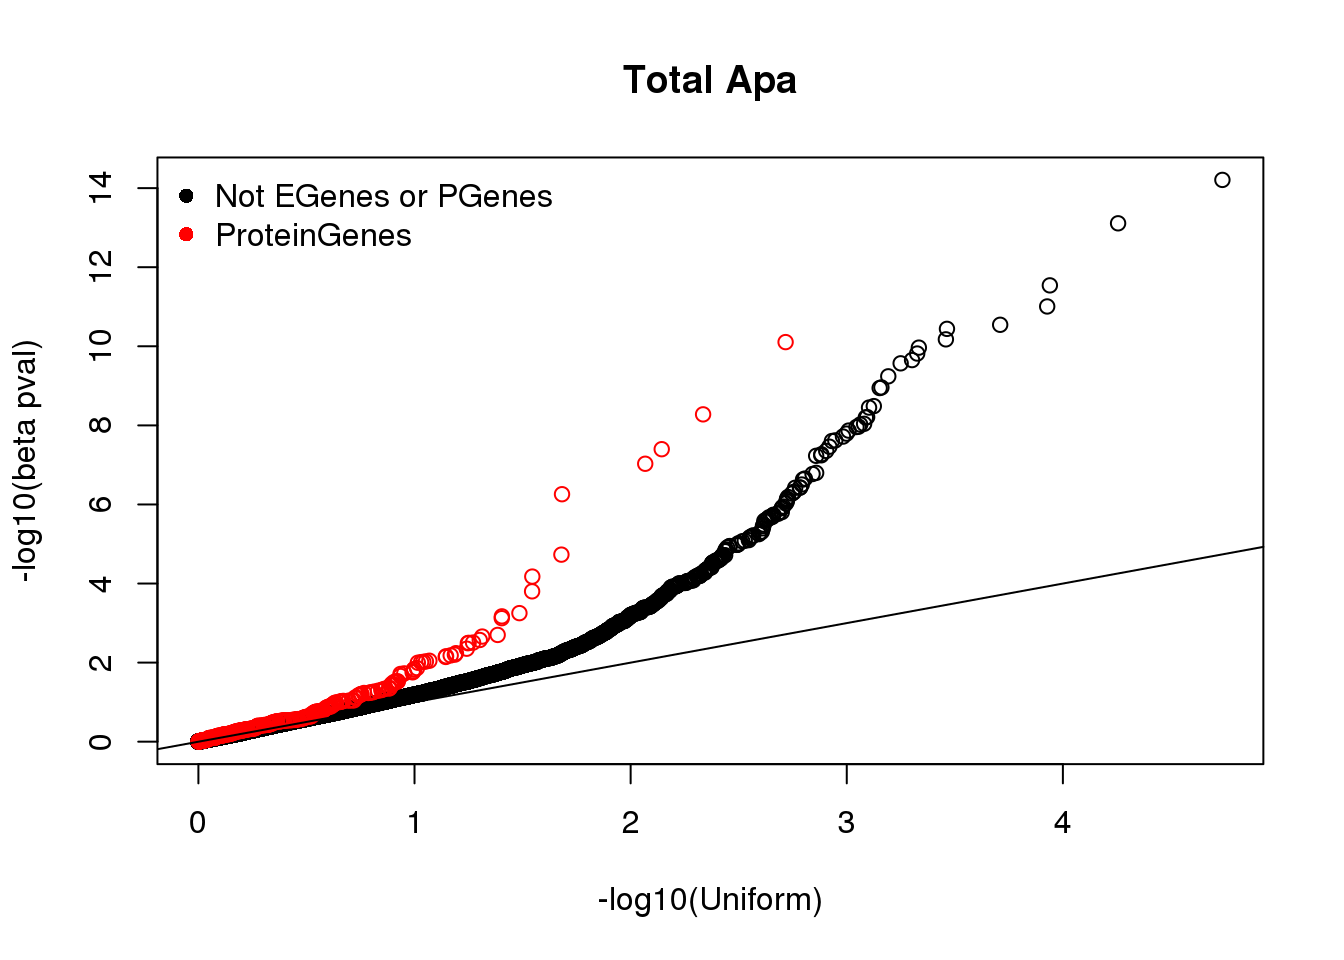
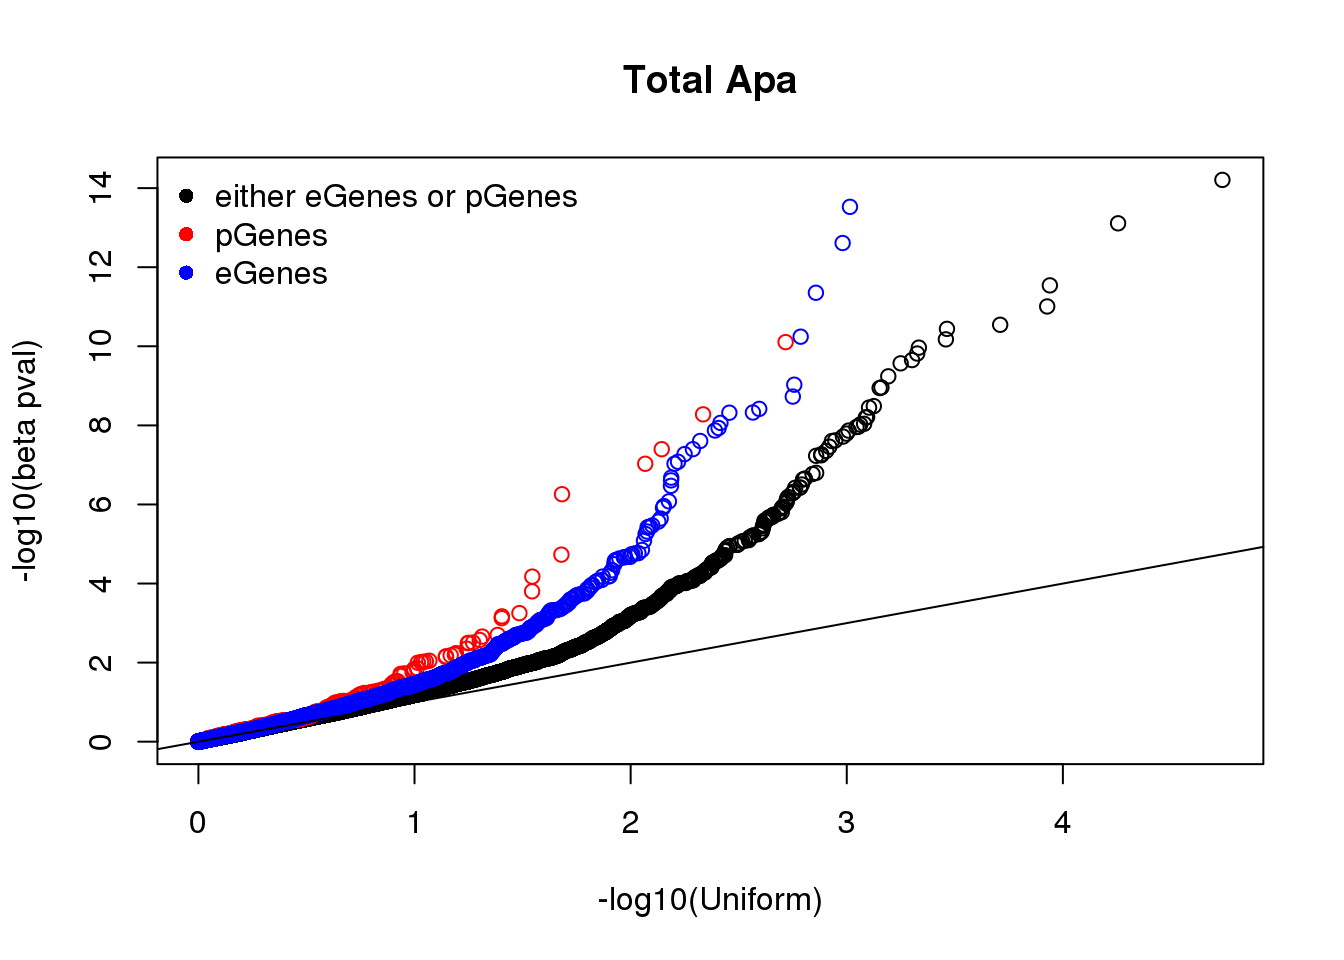
Build site.

Changed region(s): [[0.125, 0.4062, 0.5938, 0.7812], [0.1562, 0.1875, 0.4375, 0.3125]]

diff --git a/docs/pQTLandeQTLoverlap.html b/docs/pQTLandeQTLoverlap.html
@@ -422,10 +422,10 @@ This reproducible <a href="http://rmarkdown.rstudio.com">R Markdown</a> analysis
 <div class="panel panel-default">
 <div class="panel-heading">
 <p class="panel-title">
-<a data-toggle="collapse" data-parent="#workflowr-checks" href="#strongRepositoryversionstrongahrefhttpsgithubcombrimittlemanapaQTLtreeb38964e1734f523e65ec48706cd046efad0babc5targetblankb38964ea"> <span class="glyphicon glyphicon-ok text-success" aria-hidden="true"></span> <strong>Repository version:</strong> <a href="https://github.com/brimittleman/apaQTL/tree/b38964e1734f523e65ec48706cd046efad0babc5" target="_blank">b38964e</a> </a>
+<a data-toggle="collapse" data-parent="#workflowr-checks" href="#strongRepositoryversionstrongahrefhttpsgithubcombrimittlemanapaQTLtree5010185d2022c9b1989ea3475bd734b34fd2fdc5targetblank5010185a"> <span class="glyphicon glyphicon-ok text-success" aria-hidden="true"></span> <strong>Repository version:</strong> <a href="https://github.com/brimittleman/apaQTL/tree/5010185d2022c9b1989ea3475bd734b34fd2fdc5" target="_blank">5010185</a> </a>
 </p>
 </div>
[2 lines of base64/hex data omitted]
 <div class="panel-body">
 <p>
 Great! You are using Git for version control. Tracking code development and connecting the code version to the results is critical for reproducibility. The version displayed above was the version of the Git repository at the time these results were generated. <br><br> Note that you need to be careful to ensure that all relevant files for the analysis have been committed to Git prior to generating the results (you can use <code>wflow_publish</code> or <code>wflow_git_commit</code>). workflowr only checks the R Markdown file, but you know if there are other scripts or data files that it depends on. Below is the status of the Git repository when the results were generated:
@@ -972,6 +972,40 @@ Message
 Rmd
 </td>
 <td>
+<a href="https://github.com/brimittleman/apaQTL/blob/5010185d2022c9b1989ea3475bd734b34fd2fdc5/analysis/pQTLandeQTLoverlap.Rmd" target="_blank">5010185</a>
+</td>
+<td>
+brimittleman
+</td>
+<td>
+2019-06-14
+</td>
+<td>
+wflow_publish(c(“analysis/index.Rmd”, “analysis/pQTLandeQTLoverlap.Rmd”))
+</td>
+</tr>
+<tr>
+<td>
+html
+</td>
+<td>
+<a href="https://rawcdn.githack.com/brimittleman/apaQTL/15962c894bfeb221c45d3f1260561c58a29c0941/docs/pQTLandeQTLoverlap.html" target="_blank">15962c8</a>
+</td>
+<td>
+brimittleman
+</td>
+<td>
+2019-06-14
+</td>
+<td>
+Build site.
+</td>
+</tr>
+<tr>
+<td>
+Rmd
+</td>
+<td>
 <a href="https://github.com/brimittleman/apaQTL/blob/b38964e1734f523e65ec48706cd046efad0babc5/analysis/pQTLandeQTLoverlap.Rmd" target="_blank">b38964e</a>
 </td>
 <td>
@@ -1031,28 +1065,114 @@ python subsetAPAnotEorPgene.py Nuclear ../data/ApaByPgene/NuclearApaNOTPorEGenes
 <pre class="r"><code>tot.notEorP=read.table(&quot;../data/ApaByPgene/TotalApaNOTPorEGenes.txt&quot;,stringsAsFactors = F,col.names = c(&quot;pid&quot;, &quot;nvar&quot;, &quot;shape1&quot;, &quot;shape2&quot;, &quot;dummy&quot;, &quot;sid&quot;, &quot;dist&quot;, &quot;npval&quot;, &quot;slope&quot;, &quot;ppval&quot;, &quot;bpval&quot;))
 tot.PS=read.table(&quot;../data/ApaByPgene/TotalApaPSGenes.txt&quot;,stringsAsFactors = F,col.names = c(&quot;pid&quot;, &quot;nvar&quot;, &quot;shape1&quot;, &quot;shape2&quot;, &quot;dummy&quot;, &quot;sid&quot;, &quot;dist&quot;, &quot;npval&quot;, &quot;slope&quot;, &quot;ppval&quot;, &quot;bpval&quot;))
 tot.ES=read.table(&quot;../data/ApaByPgene/TotalApaESGenes.txt&quot;,stringsAsFactors = F, col.names = c(&quot;pid&quot;, &quot;nvar&quot;, &quot;shape1&quot;, &quot;shape2&quot;, &quot;dummy&quot;, &quot;sid&quot;, &quot;dist&quot;, &quot;npval&quot;, &quot;slope&quot;, &quot;ppval&quot;, &quot;bpval&quot;) )
+tot.ex=read.table(&quot;../data/ApaByEgene/TotalApaexplainedeGenes.txt&quot;,stringsAsFactors = F,col.names = c(&quot;pid&quot;, &quot;nvar&quot;, &quot;shape1&quot;, &quot;shape2&quot;, &quot;dummy&quot;, &quot;sid&quot;, &quot;dist&quot;, &quot;npval&quot;, &quot;slope&quot;, &quot;ppval&quot;, &quot;bpval&quot;))
+tot.un=read.table(&quot;../data/ApaByEgene/TotalApaUnexplainedeGenes.txt&quot;,stringsAsFactors = F, col.names = c(&quot;pid&quot;, &quot;nvar&quot;, &quot;shape1&quot;, &quot;shape2&quot;, &quot;dummy&quot;, &quot;sid&quot;, &quot;dist&quot;, &quot;npval&quot;, &quot;slope&quot;, &quot;ppval&quot;, &quot;bpval&quot;) )
+
+tot_allE=as.data.frame(rbind(tot.ex,tot.un))
 tot.PS=na.omit(tot.PS)
 tot.notEorP=na.omit(tot.notEorP)
-tot.ES=na.omit(tot.ES)</code></pre>
+tot.ES=na.omit(tot.ES)
+tot.un=na.omit(tot.un)</code></pre>
 <pre class="r"><code>qqplot(-log10(runif(nrow(tot.notEorP))), -log10(tot.notEorP$bpval), xlab=&quot;-log10(Uniform)&quot;, ylab=&quot;-log10(beta pval)&quot;, main=&quot;Total Apa&quot;)
 points(sort(-log10(runif(nrow(tot.PS)))), sort(-log10(tot.PS$bpval)),col= alpha(&quot;Red&quot;))
+points(sort(-log10(runif(nrow(tot_allE)))), sort(-log10(tot_allE$bpval)),col= alpha(&quot;blue&quot;))
 abline(0,1)
 
-legend(&quot;topleft&quot;, legend=c(&quot;Not EGenes or PGenes&quot;, &quot;ProteinGenes&quot;),col=c(&quot;black&quot;, &quot;red&quot;), pch=16,bty = &#39;n&#39;)</code></pre>
+legend(&quot;topleft&quot;, legend=c(&quot;either eGenes or pGenes&quot;, &quot;pGenes&quot;, &quot;eGenes&quot;),col=c(&quot;black&quot;, &quot;red&quot;,&quot;blue&quot;), pch=16,bty = &#39;n&#39;)</code></pre>
 <p><img src="figure/pQTLandeQTLoverlap.Rmd/unnamed-chunk-6-1.png" width="672" style="display: block; margin: auto;" /></p>
+<p>
+<button type="button" class="btn btn-default btn-xs btn-workflowr btn-workflowr-fig" data-toggle="collapse" data-target="#fig-unnamed-chunk-6-1">
+Past versions of unnamed-chunk-6-1.png
+</button>
+</p>
+<div id="fig-unnamed-chunk-6-1" class="collapse">
+<div class="table-responsive">
+<table class="table table-condensed table-hover">
+<thead>
+<tr>
+<th>
+Version
+</th>
+<th>
+Author
+</th>
+<th>
+Date
+</th>
+</tr>
+</thead>
+<tbody>
+<tr>
+<td>
+<a href="https://github.com/brimittleman/apaQTL/blob/15962c894bfeb221c45d3f1260561c58a29c0941/docs/figure/pQTLandeQTLoverlap.Rmd/unnamed-chunk-6-1.png" target="_blank">15962c8</a>
+</td>
+<td>
+brimittleman
+</td>
+<td>
+2019-06-14
+</td>
+</tr>
+</tbody>
+</table>
+</div>
+</div>
 <p>Nuclear:</p>
 <pre class="r"><code>nuc.notEorP=read.table(&quot;../data/ApaByPgene/NuclearApaNOTPorEGenes.txt&quot;,stringsAsFactors = F,col.names = c(&quot;pid&quot;, &quot;nvar&quot;, &quot;shape1&quot;, &quot;shape2&quot;, &quot;dummy&quot;, &quot;sid&quot;, &quot;dist&quot;, &quot;npval&quot;, &quot;slope&quot;, &quot;ppval&quot;, &quot;bpval&quot;))
 nuc.PS=read.table(&quot;../data/ApaByPgene/NuclearApaPSGenes.txt&quot;,stringsAsFactors = F,col.names = c(&quot;pid&quot;, &quot;nvar&quot;, &quot;shape1&quot;, &quot;shape2&quot;, &quot;dummy&quot;, &quot;sid&quot;, &quot;dist&quot;, &quot;npval&quot;, &quot;slope&quot;, &quot;ppval&quot;, &quot;bpval&quot;))
 nuc.ES=read.table(&quot;../data/ApaByPgene/NuclearApaESGenes.txt&quot;,stringsAsFactors = F, col.names = c(&quot;pid&quot;, &quot;nvar&quot;, &quot;shape1&quot;, &quot;shape2&quot;, &quot;dummy&quot;, &quot;sid&quot;, &quot;dist&quot;, &quot;npval&quot;, &quot;slope&quot;, &quot;ppval&quot;, &quot;bpval&quot;) )
+nuc.ex=read.table(&quot;../data/ApaByEgene/NuclearApaexplainedeGenes.txt&quot;,stringsAsFactors = F,col.names = c(&quot;pid&quot;, &quot;nvar&quot;, &quot;shape1&quot;, &quot;shape2&quot;, &quot;dummy&quot;, &quot;sid&quot;, &quot;dist&quot;, &quot;npval&quot;, &quot;slope&quot;, &quot;ppval&quot;, &quot;bpval&quot;))
+nuc.un=read.table(&quot;../data/ApaByEgene/NuclearApaUnexplainedeGenes.txt&quot;,stringsAsFactors = F, col.names = c(&quot;pid&quot;, &quot;nvar&quot;, &quot;shape1&quot;, &quot;shape2&quot;, &quot;dummy&quot;, &quot;sid&quot;, &quot;dist&quot;, &quot;npval&quot;, &quot;slope&quot;, &quot;ppval&quot;, &quot;bpval&quot;) )
+nuc.un=na.omit(nuc.un)
 nuc.PS=na.omit(nuc.PS)
 nuc.notEorP=na.omit(nuc.notEorP)
-nuc.ES=na.omit(nuc.ES)</code></pre>
+nuc.ES=na.omit(nuc.ES)
+
+nuc_allE=as.data.frame(rbind(nuc.ex,nuc.un))</code></pre>
 <pre class="r"><code>qqplot(-log10(runif(nrow(nuc.notEorP))), -log10(nuc.notEorP$bpval), xlab=&quot;-log10(Uniform)&quot;, ylab=&quot;-log10(beta pval)&quot;, main=&quot;Nuclear Apa&quot;)
 points(sort(-log10(runif(nrow(nuc.PS)))), sort(-log10(nuc.PS$bpval)),col= alpha(&quot;Red&quot;))
+points(sort(-log10(runif(nrow(nuc_allE)))), sort(-log10(nuc_allE$bpval)),col= alpha(&quot;blue&quot;))
 abline(0,1)
 
-legend(&quot;topleft&quot;, legend=c(&quot;Not EGenes or PGenes&quot;, &quot;ProteinGenes&quot;),col=c(&quot;black&quot;, &quot;red&quot;), pch=16,bty = &#39;n&#39;)</code></pre>
+legend(&quot;topleft&quot;, legend=c(&quot;either eGenes or pGenes&quot;, &quot;pGenes&quot;, &quot;eGenes&quot;),col=c(&quot;black&quot;, &quot;red&quot;,&quot;blue&quot;,&quot;green&quot;), pch=16,bty = &#39;n&#39;)</code></pre>
 <p><img src="figure/pQTLandeQTLoverlap.Rmd/unnamed-chunk-8-1.png" width="672" style="display: block; margin: auto;" /></p>
+<p>
+<button type="button" class="btn btn-default btn-xs btn-workflowr btn-workflowr-fig" data-toggle="collapse" data-target="#fig-unnamed-chunk-8-1">
+Past versions of unnamed-chunk-8-1.png
+</button>
+</p>
+<div id="fig-unnamed-chunk-8-1" class="collapse">
+<div class="table-responsive">
+<table class="table table-condensed table-hover">
+<thead>
+<tr>
+<th>
+Version
+</th>
+<th>
+Author
+</th>
+<th>
+Date
+</th>
+</tr>
+</thead>
+<tbody>
+<tr>
+<td>
+<a href="https://github.com/brimittleman/apaQTL/blob/15962c894bfeb221c45d3f1260561c58a29c0941/docs/figure/pQTLandeQTLoverlap.Rmd/unnamed-chunk-8-1.png" target="_blank">15962c8</a>
+</td>
+<td>
+brimittleman
+</td>
+<td>
+2019-06-14
+</td>
+</tr>
+</tbody>
+</table>
+</div>
+</div>
 <br>
 <p>
 <button type="button" class="btn btn-default btn-workflowr btn-workflowr-sessioninfo" data-toggle="collapse" data-target="#workflowr-sessioninfo" style="display: block;">

diff --git a/docs/index.html b/docs/index.html
@@ -273,10 +273,10 @@ This reproducible <a href="http://rmarkdown.rstudio.com">R Markdown</a> analysis
 <div class="panel panel-default">
 <div class="panel-heading">
 <p class="panel-title">
-<a data-toggle="collapse" data-parent="#workflowr-checks" href="#strongRepositoryversionstrongahrefhttpsgithubcombrimittlemanapaQTLtreeb38964e1734f523e65ec48706cd046efad0babc5targetblankb38964ea"> <span class="glyphicon glyphicon-ok text-success" aria-hidden="true"></span> <strong>Repository version:</strong> <a href="https://github.com/brimittleman/apaQTL/tree/b38964e1734f523e65ec48706cd046efad0babc5" target="_blank">b38964e</a> </a>
+<a data-toggle="collapse" data-parent="#workflowr-checks" href="#strongRepositoryversionstrongahrefhttpsgithubcombrimittlemanapaQTLtree5010185d2022c9b1989ea3475bd734b34fd2fdc5targetblank5010185a"> <span class="glyphicon glyphicon-ok text-success" aria-hidden="true"></span> <strong>Repository version:</strong> <a href="https://github.com/brimittleman/apaQTL/tree/5010185d2022c9b1989ea3475bd734b34fd2fdc5" target="_blank">5010185</a> </a>
 </p>
 </div>
[2 lines of base64/hex data omitted]
 <div class="panel-body">
 <p>
 Great! You are using Git for version control. Tracking code development and connecting the code version to the results is critical for reproducibility. The version displayed above was the version of the Git repository at the time these results were generated. <br><br> Note that you need to be careful to ensure that all relevant files for the analysis have been committed to Git prior to generating the results (you can use <code>wflow_publish</code> or <code>wflow_git_commit</code>). workflowr only checks the R Markdown file, but you know if there are other scripts or data files that it depends on. Below is the status of the Git repository when the results were generated:
@@ -753,7 +753,6 @@ Untracked files:
     Untracked:  data/sort/
     Untracked:  data/sort_clean/
     Untracked:  data/sort_waspfilter/
-    Untracked:  docs/figure/pQTLandeQTLoverlap.Rmd/
     Untracked:  nohup.out
     Untracked:  output/._.DS_Store
     Untracked:  output/._meanCorrelationPhenotypes.svg
@@ -819,6 +818,23 @@ Message
 </tr>
 </thead>
 <tbody>
+<tr>
+<td>
+html
+</td>
+<td>
+<a href="https://rawcdn.githack.com/brimittleman/apaQTL/15962c894bfeb221c45d3f1260561c58a29c0941/docs/index.html" target="_blank">15962c8</a>
+</td>
+<td>
+brimittleman
+</td>
+<td>
+2019-06-14
+</td>
+<td>
+Build site.
+</td>
+</tr>
 <tr>
 <td>
 Rmd
